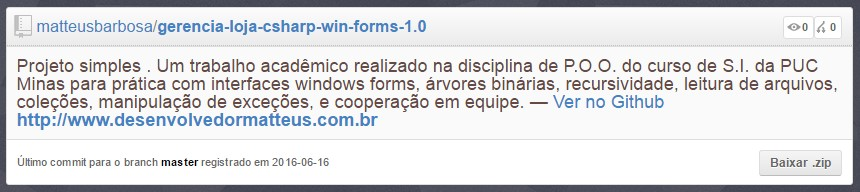
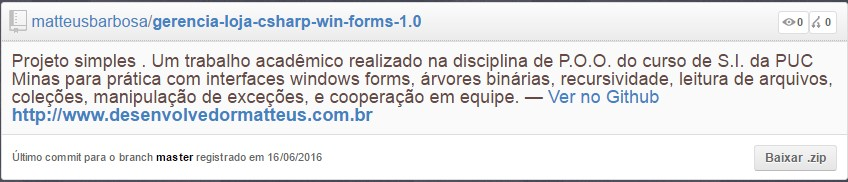
Print e data atualizados

Changed region(s): [[0.0, 0.0, 1.0, 0.989]]

diff --git a/jquery.githubRepoWidget.min.js b/jquery.githubRepoWidget.min.js
@@ -1,1 +1,1 @@
[2 lines of base64/hex data omitted]

diff --git a/jquery.githubRepoWidget.js b/jquery.githubRepoWidget.js
@@ -85,7 +85,7 @@
 				$widget.find('.watchers').text(repo.watchers);
 				$widget.find('.forks').text(repo.forks);
 				$widget.find('.description span').text(repo.description);
-				$widget.find('.updated').html('Último commit ao branch <strong>' + repo.default_branch + '</strong> registrado em ' + pushed_at);
+				$widget.find('.updated').html('Último commit ao branch <strong>' + repo.default_branch + '</strong> registrado em ' + pushed_at.split("-").reverse().join("/"));
 
 				// Don't show "null" if the repo has no homepage URL.
 				if(repo.homepage != null) $widget.find('.link').append($('<a />').attr('href', repo.homepage).text(repo.homepage));
